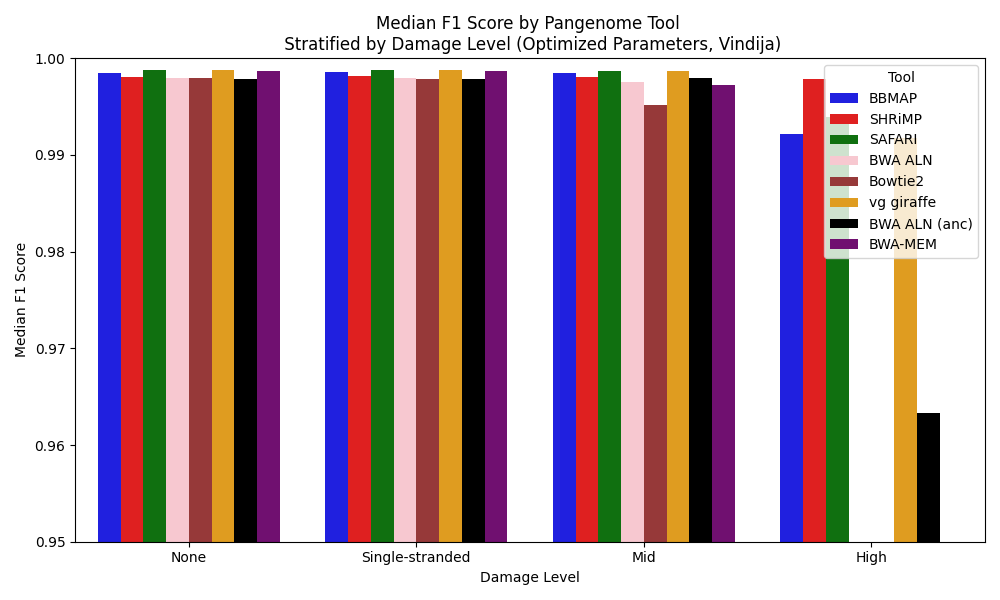
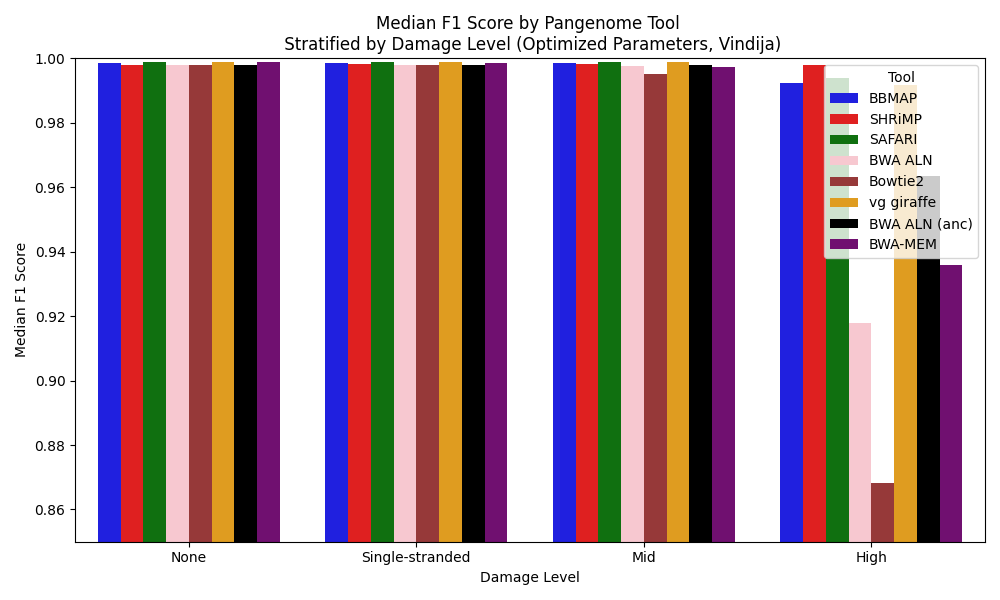
Update

diff --git a/linear_experiment/human_mito/stat_results/plot_F1_optimized_all.py b/linear_experiment/human_mito/stat_results/plot_F1_optimized_all.py
@@ -43,7 +43,7 @@ def main():
     plt.xlabel('Damage Level')
     plt.ylabel('Median F1 Score')
     plt.legend(title='Tool')
-    plt.ylim(0.95, 1)  # Restrict y-axis to start at 0.7
+    plt.ylim(0.85, 1)  # Restrict y-axis to start at 0.7
     plt.tight_layout()
 
     plt.savefig(sys.argv[2])
